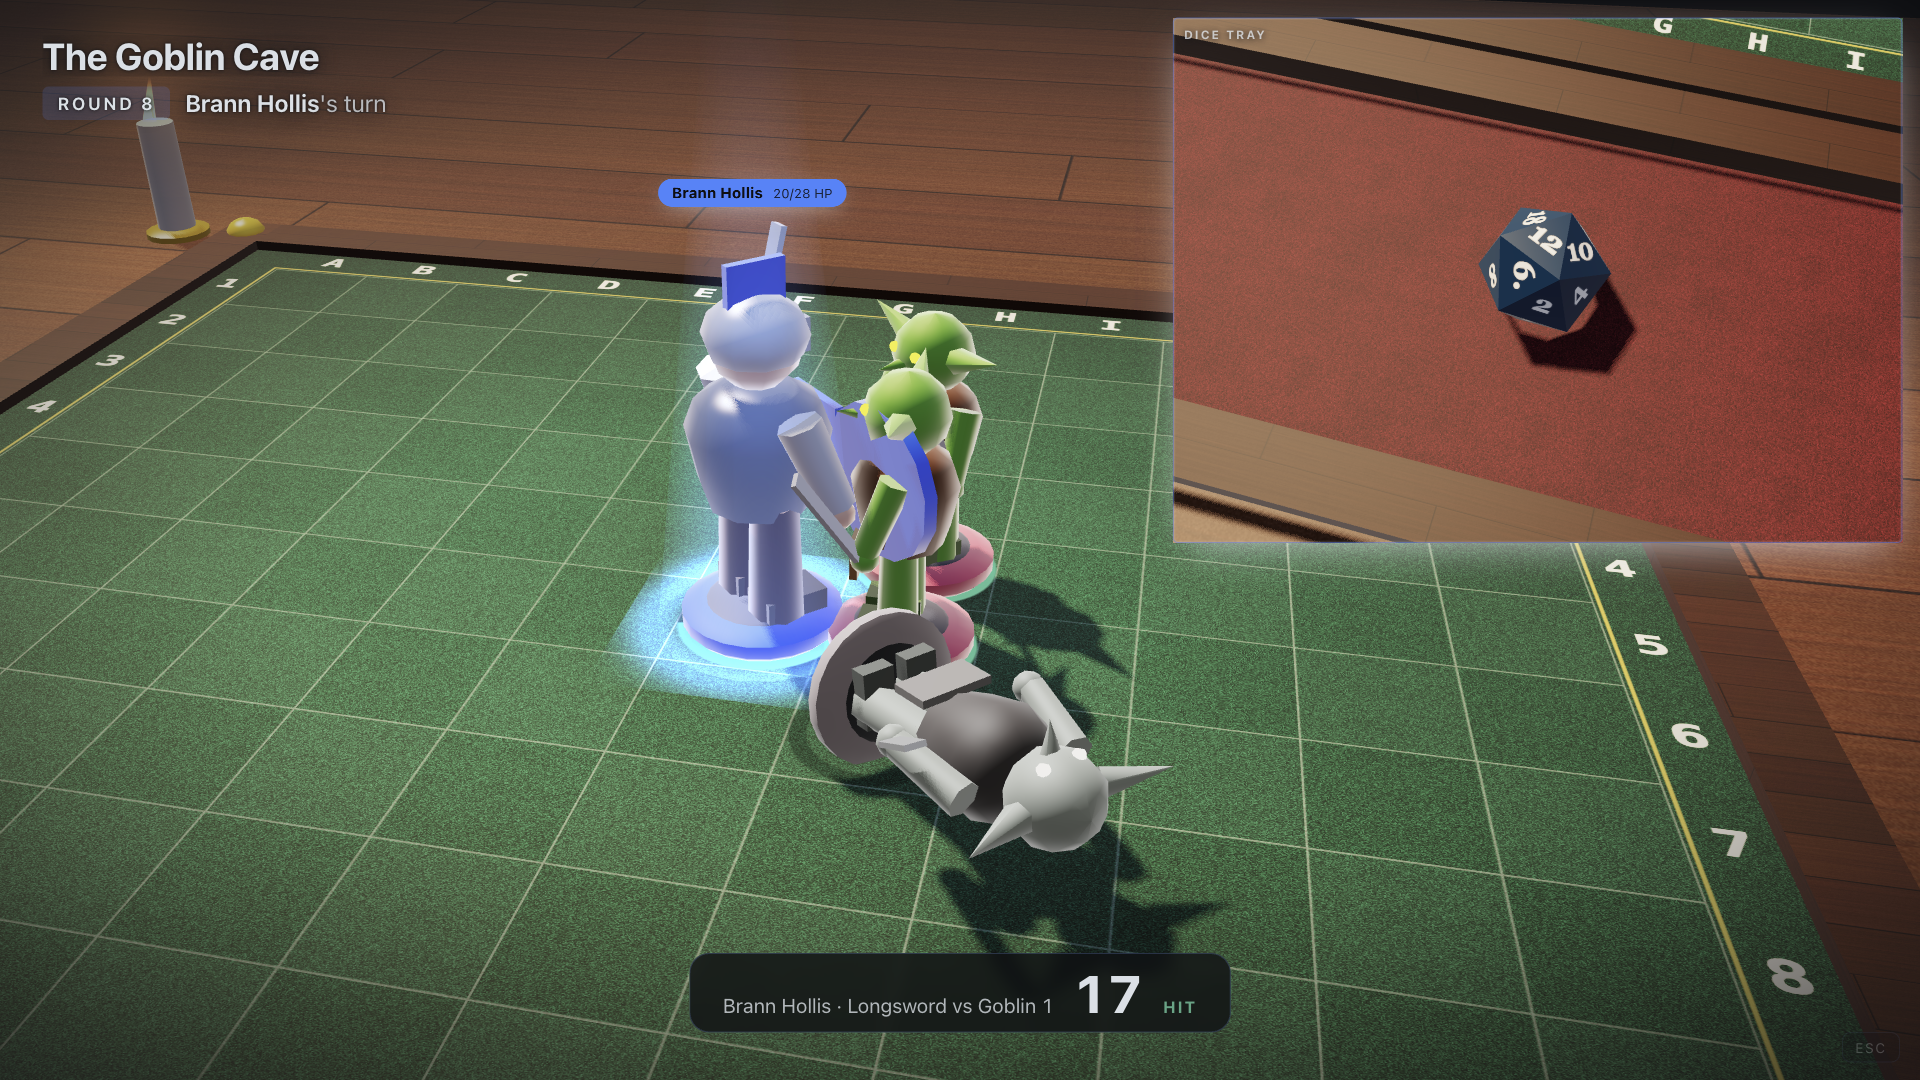
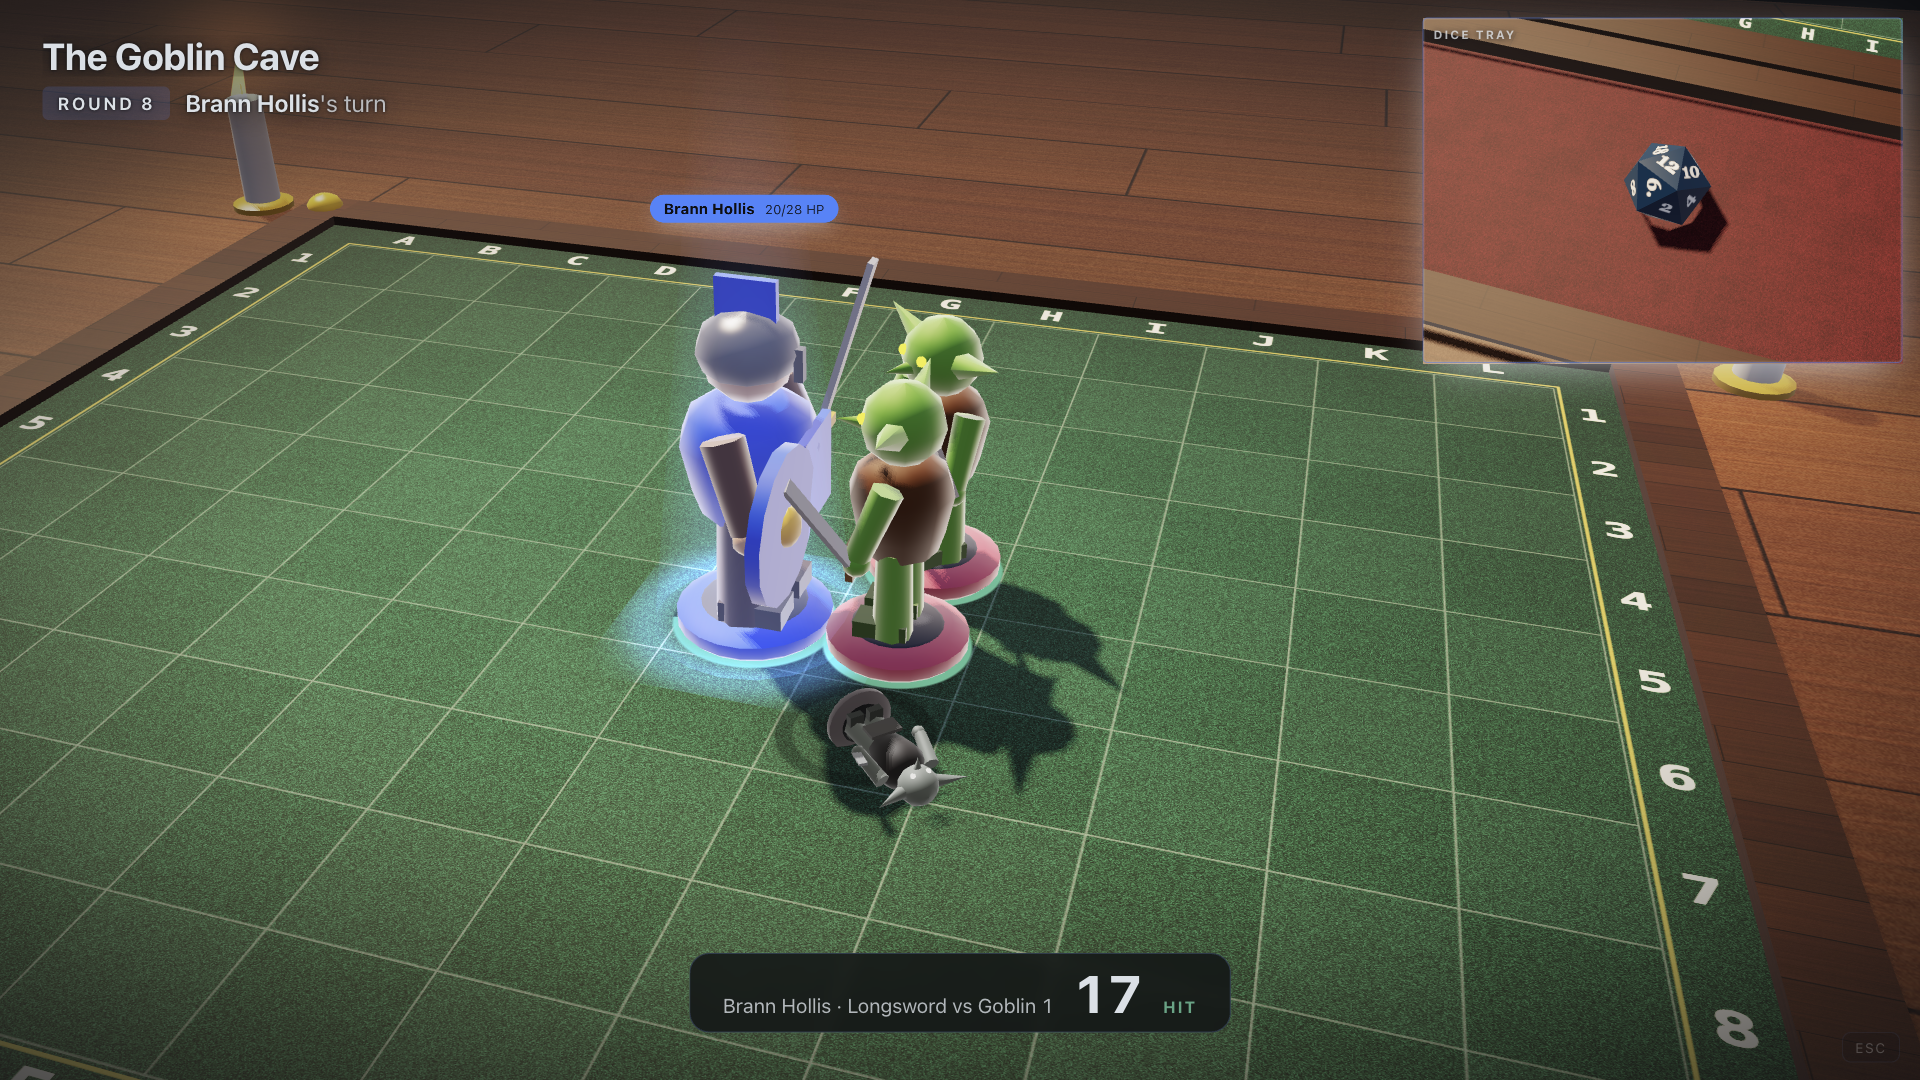
Tabletop 3D: painted fighter, 25% dice window, small dark fallen creatures
The fighter torso is team paint instead of metal, helm is darker steel, and metal reflections use a warm environment so players no longer read as frosted plastic. The resting dice window is 25% of the width (grows 1.35x in flight). Dead creatures lie flat at 45% scale, sunk slightly and dimmed. Screenshot re-captured at 1920x1080 in cinematic mode.

diff --git a/tablekeeper/desktop/plugin.js b/tablekeeper/desktop/plugin.js
@@ -645,10 +645,10 @@ const eyes = (b, h, col, r = 0.022, y = 0.02, spread = 0.062, z = 0.13) => { for
 
 const MINI_BUILDERS = {
   fighter(b) {
-    const h = biped(b, { torso: ART.steelDark, tf: F_METAL, legs: shade(ART.leather, 0.8), arm: ART.steel, af: F_METAL })
+    const h = biped(b, { torso: shade(TEAM, 0.78), tf: F_TEAM, legs: shade(ART.leather, 0.8), arm: ART.leather, af: 0 })
     b.add(box(0.27, 0.34, 0.03), TEAM, F_TEAM, [0, 0.58, 0.215])
-    b.add(sphere(0.17, 10, 6), ART.steel, F_METAL, [h[0], h[1] + 0.03, h[2]], [0, 0, 0], [1, 0.82, 1])
-    b.add(box(0.035, 0.12, 0.03), ART.steel, F_METAL, [0, h[1] - 0.01, 0.17])
+    b.add(sphere(0.17, 10, 6), shade(ART.steel, 0.62), F_METAL, [h[0], h[1] + 0.03, h[2]], [0, 0, 0], [1, 0.82, 1])
+    b.add(box(0.035, 0.12, 0.03), shade(ART.steel, 0.62), F_METAL, [0, h[1] - 0.01, 0.17])
     b.add(box(0.03, 0.2, 0.2), TEAM, F_TEAM, [0, h[1] + 0.18, 0], [0, 0, 0])
     b.add(cyl(0.27, 0.27, 0.045, 14), TEAM, F_TEAM, [-0.36, 0.58, 0.2], [Math.PI / 2, 0, 0])
     b.add(sphere(0.07, 8, 5), ART.gold, F_METAL, [-0.36, 0.58, 0.245], [0, 0, 0], [1, 1, 0.6])
@@ -881,7 +881,7 @@ void main(){
 const SURF_FS = `
 varying vec3 vW; varying vec3 vN; varying vec3 vC; varying float vF; varying vec2 vUV; varying vec4 vL;
 uniform vec3 uCam; uniform vec3 uSun; uniform vec3 uSunCol; uniform vec3 uSky; uniform vec3 uGround; uniform vec3 uFog; uniform float uFogD;
-uniform vec3 uTeam; uniform vec3 uGlow; uniform vec4 uFlash; uniform float uDesat; uniform float uTexMode;
+uniform vec3 uTeam; uniform vec3 uGlow; uniform vec4 uFlash; uniform float uDesat; uniform float uDim; uniform float uTexMode;
 uniform float uShine; uniform float uSpec; uniform vec3 uBody; uniform vec3 uInk; uniform float uRim;
 uniform vec4 uPL0; uniform vec4 uPL1; uniform vec3 uPLCol; uniform vec2 uTexel; uniform float uShadowOn;
 uniform sampler2D uTex; uniform sampler2D uShadow;
@@ -925,10 +925,10 @@ void main(){
   vec3 spec = uSunCol * pow(max(dot(N, H), 0.0), shin) * ks * sh * pool;
   float rim = pow(1.0 - max(dot(N, V), 0.0), 2.4);
   vec3 col = alb * diff + spec + mix(uSky, vec3(1.0, 0.78, 0.55), 0.55) * rim * uRim;
-  if (metal > 0.5) { vec3 rf = reflect(-V, N); col = mix(col, alb * mix(uGround * 1.5, uSky * 2.2, rf.y * 0.5 + 0.5) + spec, 0.55); }
+  if (metal > 0.5) { vec3 rf = reflect(-V, N); col = mix(col, alb * mix(uGround * 1.5, mix(uSky, vec3(0.5, 0.36, 0.22), 0.6) * 1.6, rf.y * 0.5 + 0.5) + spec, 0.35); }
   col += uGlow;
   if (glow > 0.5 || tglow > 0.5) col = alb * 1.9;
-  col = mix(col, vec3(dot(col, vec3(0.3, 0.59, 0.11))), uDesat);
+  col = mix(col, vec3(dot(col, vec3(0.3, 0.59, 0.11))), uDesat) * uDim;
   col += uFlash.rgb * uFlash.a;
   float dist = length(uCam - vW);
   col = mix(col, lin(uFog), 1.0 - exp(-uFogD * uFogD * dist * dist));
@@ -1192,8 +1192,8 @@ export function homeFrame(cells, aspect, el = HOME_EL) {
 /** The corner inset that shows the dice tray close up, in canvas CSS pixels; k eases 0 (resting) to 1 (a die is in the air). */
 export function insetRect(w, h, k) {
   const m = 14
-  const rest = clamp(w * 0.3, 150, 640)
-  const big = Math.min(rest * 1.35, w * 0.38)
+  const rest = clamp(w * 0.25, 130, 540)
+  const big = Math.min(rest * 1.35, w * 0.34)
   const iw = Math.min(rest + (big - rest) * clamp(k, 0, 1), w - 2 * m), ih = iw * 0.72
   return { x: w - m - iw, y: m, w: iw, h: Math.min(ih, h - 2 * m) }
 }
@@ -1615,10 +1615,11 @@ export function createStage(ctx, host, canvas, hud, hooks = {}) {
     const f = m.fall
     const radius = footR(m.geo)
     const breathe = 1 + Math.sin(t * 1.7 + m.phase) * 0.012 * (1 - f)
-    const q = qmul(qaxis([0, 1, 0], m.yaw), qaxis([1, 0, 0], -f * 1.42))
-    const lift = Math.sin(f * 1.42) * radius * 0.92
+    const dk = m.v.state === 'dead' ? f : 0, sc = 1 - 0.55 * dk
+    const q = qmul(qaxis([0, 1, 0], m.yaw), qaxis([1, 0, 0], -f * (1.42 + 0.15 * dk)))
+    const lift = Math.sin(f * 1.42) * radius * 0.92 * sc - 0.03 * dk
     const y = BOARD_Y + dy + lift
-    m.model = m4trs([m.pos[0] + dx, y, m.pos[1] + dz], q, [MINI_XZ, MINI_SCALE_UP * breathe, MINI_XZ])
+    m.model = m4trs([m.pos[0] + dx, y, m.pos[1] + dz], q, [MINI_XZ * sc, MINI_SCALE_UP * breathe * sc, MINI_XZ * sc])
     m.eyeAt = [m.pos[0] + dx, BOARD_Y + (m.geo.top || 1.2) * MINI_SCALE_UP * (1 - f * 0.8) + dy + 0.12, m.pos[1] + dz]
     m.ground = [m.pos[0] + dx, m.pos[1] + dz]
     if (m.pending && t - m.pending > 6) commit(m)
@@ -1661,10 +1662,10 @@ export function createStage(ctx, host, canvas, hud, hooks = {}) {
   const lightEye = vadd([0, 0, 1.6], vmul(SUN, 24))
   const lvp = m4mul(m4ortho(-12.5, 12.5, -12.5, 12.5, 1, 52), m4look(lightEye, [0, 0, 1.6]))
   let pl0 = [0, 0, 0, 0], pl1 = [0, 0, 0, 0]
-  const D0 = { rim: 0.16, team: [1, 1, 1], glow: [0, 0, 0], flash: [0, 0, 0, 0], desat: 0, tex: null, mode: 0, spec: 0.1, shine: 14, body: [1, 1, 1], ink: [0, 0, 0] }
+  const D0 = { rim: 0.16, team: [1, 1, 1], glow: [0, 0, 0], flash: [0, 0, 0, 0], desat: 0, dim: 1, tex: null, mode: 0, spec: 0.1, shine: 14, body: [1, 1, 1], ink: [0, 0, 0] }
   const drawSurf = (g, model, o = D0) => {
     const d = o === D0 ? o : { ...D0, ...o }
-    surf.m('uModel', model); surf.v3('uTeam', d.team); surf.v3('uGlow', d.glow); surf.v4('uFlash', d.flash); surf.f('uDesat', d.desat)
+    surf.m('uModel', model); surf.v3('uTeam', d.team); surf.v3('uGlow', d.glow); surf.v4('uFlash', d.flash); surf.f('uDesat', d.desat); surf.f('uDim', d.dim)
     surf.f('uTexMode', d.tex ? d.mode : 0); surf.f('uSpec', d.spec); surf.f('uShine', d.shine); surf.v3('uBody', d.body); surf.v3('uInk', d.ink); surf.f('uRim', d.rim)
     if (d.tex) { gl.activeTexture(gl.TEXTURE0); gl.bindTexture(gl.TEXTURE_2D, d.tex) }
     bindGeo(g)
@@ -1704,7 +1705,7 @@ export function createStage(ctx, host, canvas, hud, hooks = {}) {
       const flashK = m.flash ? clamp(1 - (S.time - m.flash.t) / 0.7, 0, 1) : 0
       const col = m.tone ? toneOf(m.tone) : toneOf('red')
       const dead = m.v.state === 'dead'
-      drawSurf(m.geo, m.model, { team: col, flash: flashK > 0 ? [m.flash.tint[0], m.flash.tint[1], m.flash.tint[2], flashK * m.flash.strength] : D0.flash, rim: dead ? 0.3 : 0.95, desat: dead ? 0.92 : m.v.state === 'down' ? 0.45 : 0, glow: m.key === S.active ? [0.03, 0.03, 0.05] : D0.glow })
+      drawSurf(m.geo, m.model, { team: col, flash: flashK > 0 ? [m.flash.tint[0], m.flash.tint[1], m.flash.tint[2], flashK * m.flash.strength] : D0.flash, rim: dead ? 0.3 : 0.95, dim: dead ? 0.72 : 1, desat: dead ? 0.92 : m.v.state === 'down' ? 0.45 : 0, glow: m.key === S.active ? [0.03, 0.03, 0.05] : D0.glow })
       // condition gems, concentration halo, death-save pips
       const c = m.c, top = BOARD_Y + (m.geo.top || 1.2) * MINI_SCALE_UP + 0.3
       c.conditions.slice(0, 4).forEach((cond, k, all) => {
